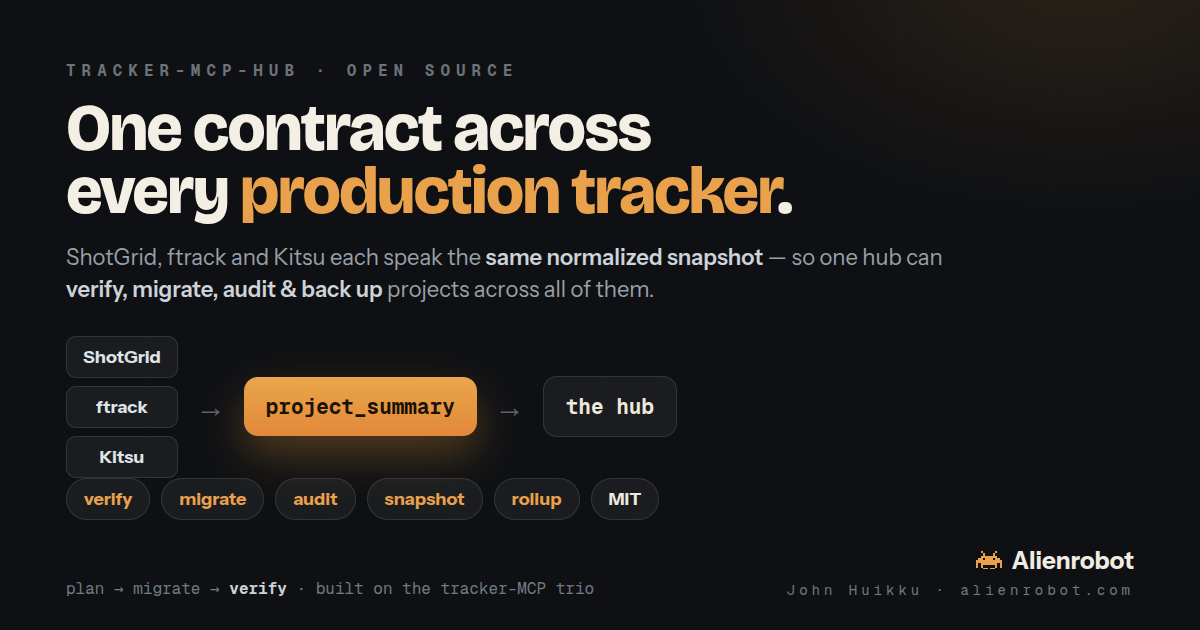
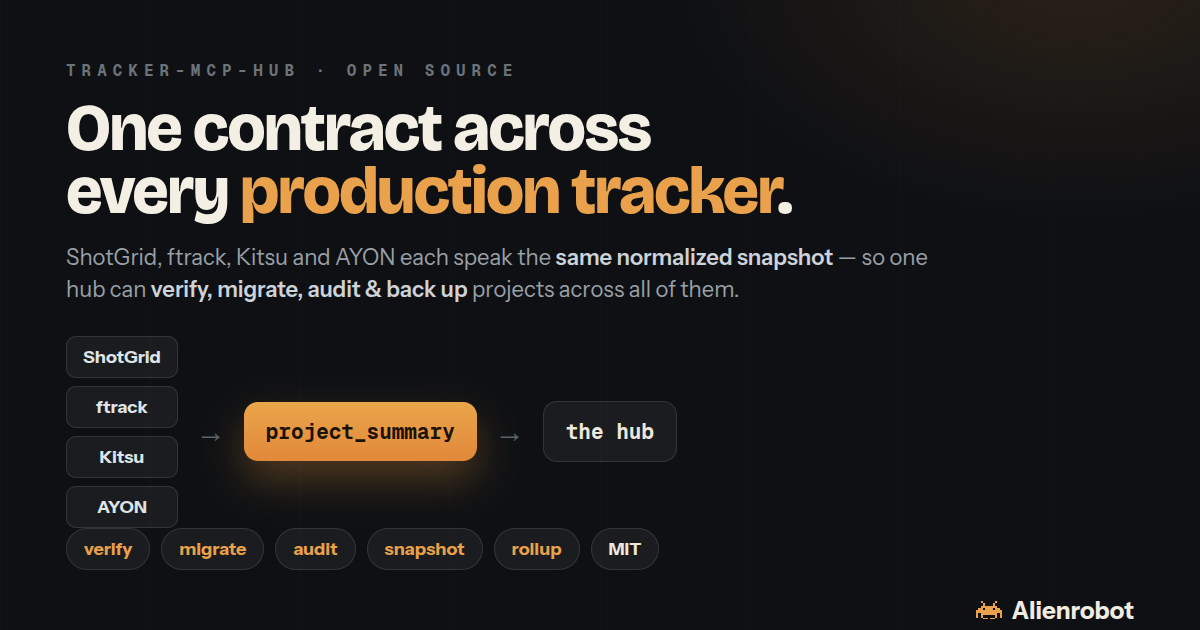
docs(hub): add AYON as the 4th tracker — README, hero graphic + landing page
Architecture diagram + interop line now include ayon-mcp; the hero.png and the
GitHub Pages landing show ShotGrid · ftrack · Kitsu · AYON -> project_summary ->
hub (quartet). Re-rendered hero at 1200x630 in the Editorial Data Original style.

diff --git a/web/index.html b/web/index.html
@@ -55,11 +55,12 @@
 <div class="wrap">
   <p class="lede"><b>tracker-mcp-hub</b> is a tracker-agnostic production-data layer. Each tracker MCP emits the
     <b>same normalized snapshot</b>, and the hub turns that one contract into things no single tracker can do —
-    <b>verify, migrate, audit, snapshot and roll up</b> across ShotGrid, ftrack and Kitsu interchangeably.</p>
+    <b>verify, migrate, audit, snapshot and roll up</b> across ShotGrid, ftrack, Kitsu and AYON interchangeably.</p>
   <div class="repos">
     <a class="r" href="https://github.com/huikku/shotgrid-mcp">shotgrid-mcp</a>
     <a class="r" href="https://github.com/huikku/ftrack-mcp">ftrack-mcp</a>
     <a class="r" href="https://github.com/huikku/kitsu-mcp">kitsu-mcp</a>
+    <a class="r" href="https://github.com/huikku/ayon-mcp">ayon-mcp</a>
   </div>
 
   <h2>Capabilities</h2>
@@ -73,7 +74,7 @@
   </div>
 
   <h2>Proven live</h2>
-  <div class="h2sub">Pointed at the same project copied to all three trackers</div>
+  <div class="h2sub">Pointed at the same project copied to all three of the original trackers</div>
   <pre><span class="dim"># audit: ShotGrid (source of truth)  vs  its mirror copies</span>
 <span class="g">kitsu</span>  copy   tasks <b>&minus;53</b>
 <span class="g">ftrack</span> copy   tasks <b>&minus;8</b>  ·  status mismatches <b>615</b>  ·  casting mismatches <b>357</b>
@@ -83,9 +84,9 @@
 <span class="dim"># and an orchestrated migrate of a slice ended with:</span>   VERIFY <b>PASS</b>  <span class="dim">(all counts matched)</span></pre>
 
   <h2>Architecture</h2>
-  <div class="h2sub">Three standalone MCPs + one hub</div>
+  <div class="h2sub">Four standalone MCPs + one hub</div>
   <div class="flowbox">
-    <div class="stack"><div class="pill">ShotGrid</div><div class="pill">ftrack</div><div class="pill">Kitsu</div></div>
+    <div class="stack"><div class="pill">ShotGrid</div><div class="pill">ftrack</div><div class="pill">Kitsu</div><div class="pill">AYON</div></div>
     <div class="arrow">&rarr;</div>
     <div class="hubp mono">project_summary</div>
     <div class="arrow">&rarr;</div>

diff --git a/web/hero.html b/web/hero.html
@@ -33,10 +33,10 @@
 <body><div class="card"><div class="layer">
   <div class="eyebrow mono">tracker-mcp-hub · open source</div>
   <h1>One contract across<br>every <span class="amber">production tracker</span>.</h1>
-  <p class="sub">ShotGrid, ftrack and Kitsu each speak the <b>same normalized snapshot</b> — so one hub can <b>verify, migrate, audit & back up</b> projects across all of them.</p>
+  <p class="sub">ShotGrid, ftrack, Kitsu and AYON each speak the <b>same normalized snapshot</b> — so one hub can <b>verify, migrate, audit & back up</b> projects across all of them.</p>
   <div class="flow">
     <div class="stack">
-      <div class="pill">ShotGrid</div><div class="pill">ftrack</div><div class="pill">Kitsu</div>
+      <div class="pill">ShotGrid</div><div class="pill">ftrack</div><div class="pill">Kitsu</div><div class="pill">AYON</div>
     </div>
     <div class="arrow">&rarr;</div>
     <div class="hub">project_summary</div>
@@ -50,7 +50,7 @@
     <span class="chip"><b>rollup</b></span><span class="chip">MIT</span>
   </div>
   <div class="foot">
-    <div class="src mono">plan &rarr; migrate &rarr; <b>verify</b> · built on the tracker-MCP trio</div>
+    <div class="src mono">plan &rarr; migrate &rarr; <b>verify</b> · built on the tracker-MCP quartet</div>
     <div class="brand"><div class="nm"><svg class="invader" viewBox="0 0 11 8" shape-rendering="crispEdges" fill="currentColor"><rect x="2" y="0" width="1" height="1"/><rect x="8" y="0" width="1" height="1"/><rect x="3" y="1" width="1" height="1"/><rect x="7" y="1" width="1" height="1"/><rect x="2" y="2" width="1" height="1"/><rect x="3" y="2" width="1" height="1"/><rect x="4" y="2" width="1" height="1"/><rect x="5" y="2" width="1" height="1"/><rect x="6" y="2" width="1" height="1"/><rect x="7" y="2" width="1" height="1"/><rect x="8" y="2" width="1" height="1"/><rect x="1" y="3" width="1" height="1"/><rect x="2" y="3" width="1" height="1"/><rect x="4" y="3" width="1" height="1"/><rect x="5" y="3" width="1" height="1"/><rect x="6" y="3" width="1" height="1"/><rect x="8" y="3" width="1" height="1"/><rect x="9" y="3" width="1" height="1"/><rect x="0" y="4" width="1" height="1"/><rect x="1" y="4" width="1" height="1"/><rect x="2" y="4" width="1" height="1"/><rect x="3" y="4" width="1" height="1"/><rect x="4" y="4" width="1" height="1"/><rect x="5" y="4" width="1" height="1"/><rect x="6" y="4" width="1" height="1"/><rect x="7" y="4" width="1" height="1"/><rect x="8" y="4" width="1" height="1"/><rect x="9" y="4" width="1" height="1"/><rect x="10" y="4" width="1" height="1"/><rect x="0" y="5" width="1" height="1"/><rect x="2" y="5" width="1" height="1"/><rect x="3" y="5" width="1" height="1"/><rect x="4" y="5" width="1" height="1"/><rect x="5" y="5" width="1" height="1"/><rect x="6" y="5" width="1" height="1"/><rect x="7" y="5" width="1" height="1"/><rect x="8" y="5" width="1" height="1"/><rect x="10" y="5" width="1" height="1"/><rect x="0" y="6" width="1" height="1"/><rect x="2" y="6" width="1" height="1"/><rect x="8" y="6" width="1" height="1"/><rect x="10" y="6" width="1" height="1"/><rect x="3" y="7" width="1" height="1"/><rect x="4" y="7" width="1" height="1"/><rect x="6" y="7" width="1" height="1"/><rect x="7" y="7" width="1" height="1"/></svg><span class="name">Alienrobot</span></div><div class="tag mono">John Huikku · alienrobot.com</div></div>
   </div>
 </div></div></body></html>

diff --git a/README.md b/README.md
@@ -8,7 +8,7 @@ A **tracker-agnostic production-data layer** built on top of the tracker-MCP qua
 
 Each tracker MCP emits the **same normalized snapshot** (`project_summary`). The hub consumes that one
 contract to do things no single tracker can: **verify, migrate, audit, snapshot/restore, and roll up** —
-across ShotGrid, ftrack and Kitsu interchangeably.
+across ShotGrid, ftrack, Kitsu and AYON interchangeably.
 
 > The hub is mostly **pure** — `verify` / `audit` / `rollup` / `snapshot` operate only on the normalized
 > JSON and need no tracker SDK. Only `migrate` (write) touches the tracker MCPs.
@@ -42,13 +42,14 @@ And an orchestrated `migrate` of a slice ended with **VERIFY: PASS** (all counts
 
 ```
 shotgrid-mcp ─┐
-ftrack-mcp  ──┤  project_summary  (one normalized contract)
-kitsu-mcp   ─┘        │
+ftrack-mcp  ──┤
+kitsu-mcp   ──┤  project_summary  (one normalized contract)
+ayon-mcp    ─┘        │
                       ▼
               tracker-mcp-hub  →  verify · audit · rollup · snapshot · migrate
 ```
 
-Three standalone, single-purpose tracker MCPs (published & credited) + one hub that turns the uniform
+Four standalone, single-purpose tracker MCPs (published & credited) + one hub that turns the uniform
 contract into cross-tracker products. Adding a tracker = a new MCP that emits `project_summary`; everything
 in the hub works on it for free.
 